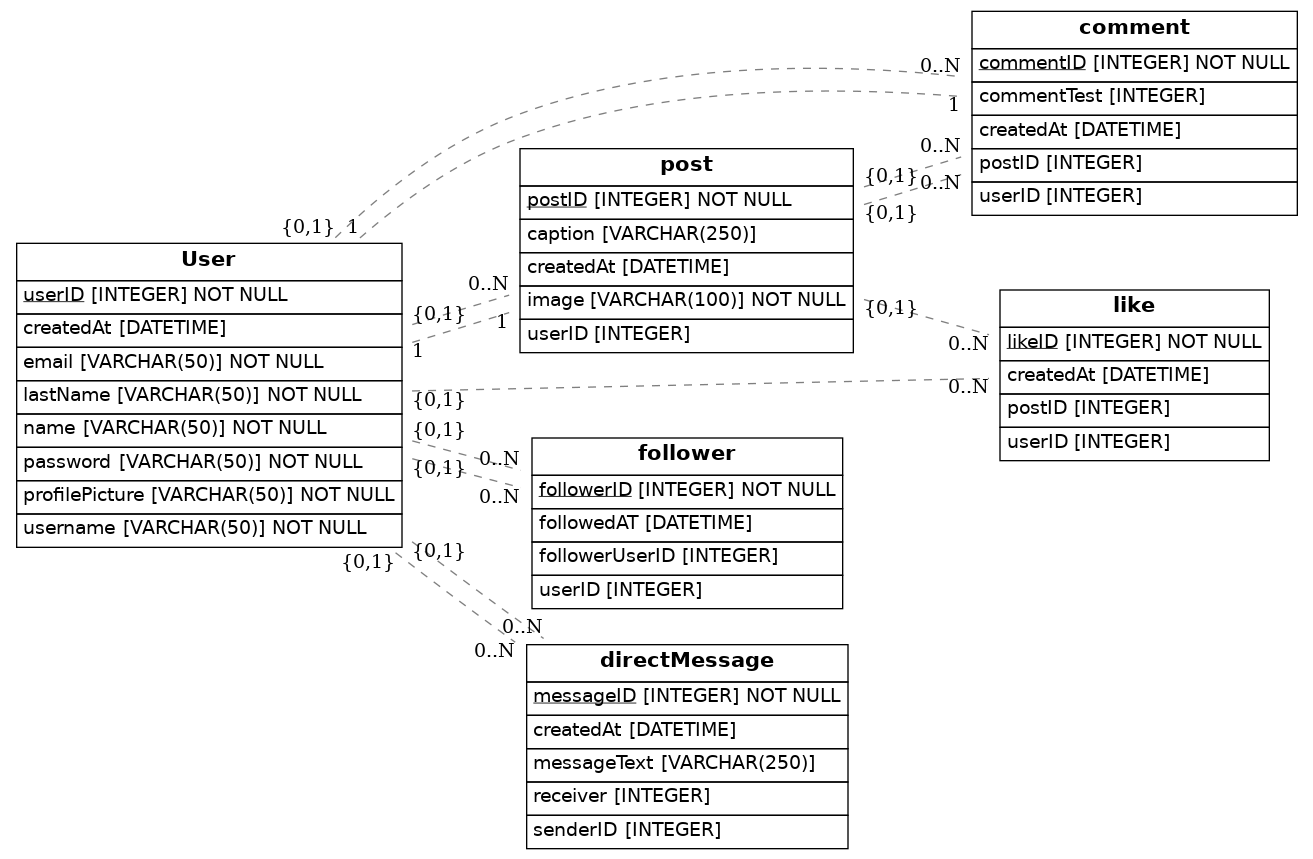
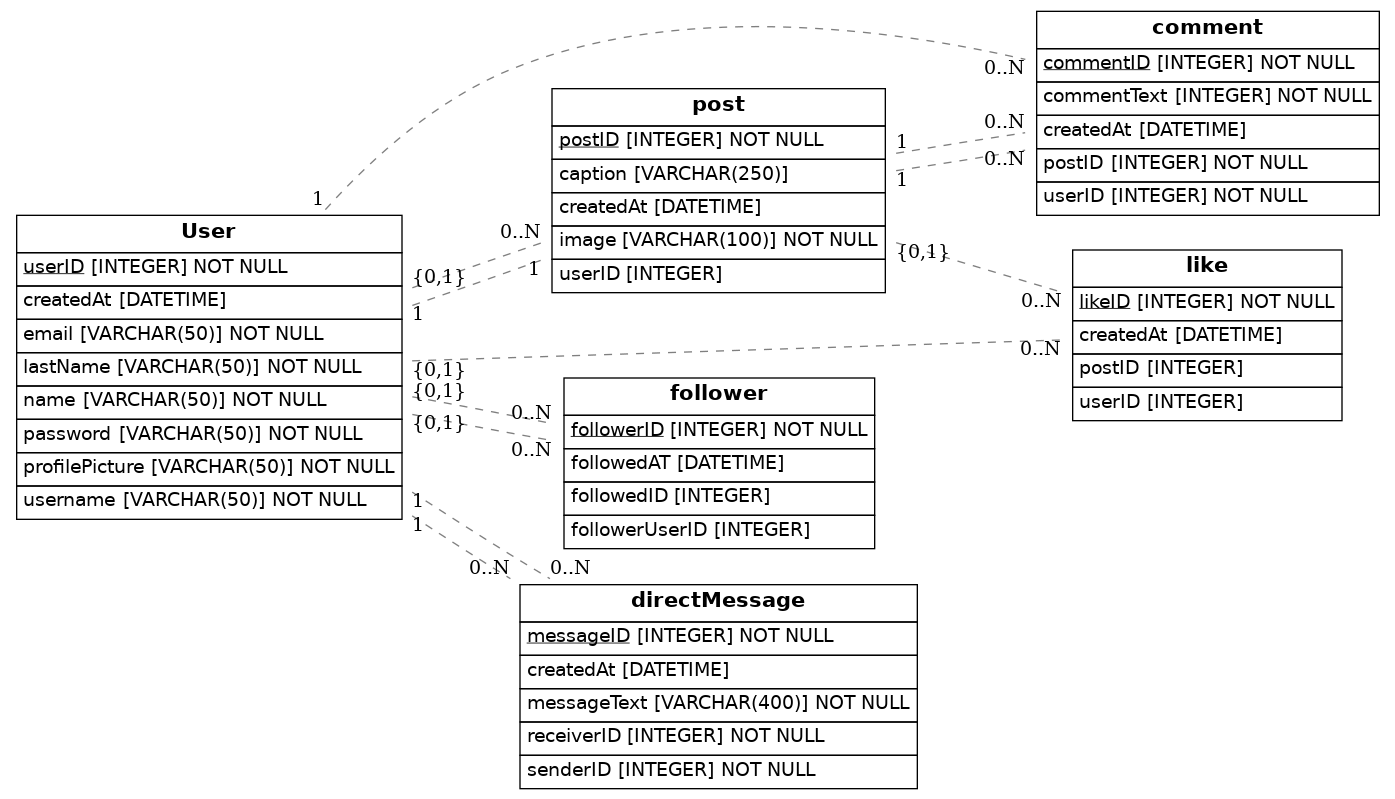
proyecto listo

diff --git a/src/models.py b/src/models.py
@@ -10,7 +10,7 @@ Base = declarative_base()
 class User(Base):
     __tablename__ = 'User'
     userID = Column(Integer, primary_key=True)
-    username = Column(String(50), index=True, nullable=False)    # >-< DirectMessage.SenderID
+    username = Column(String(50), index=True, nullable=False, unique=True)    # >-< DirectMessage.SenderID
     email = Column(String(50), nullable=False, unique=True)
     name = Column(String(50), nullable=False)
     lastName = Column(String(50), nullable=False)
@@ -19,6 +19,15 @@ class User(Base):
     createdAt = Column(DateTime)
     # Here we define columns for the table person
     # Notice that each column is also a normal Python instance attribute.
+
+        #cascade="all, delete-orphan" incluye todas las opciones de cascada como borrar, actualizar etc... y elimina los hijos sin padres
+    posts = relationship("Post", back_populates="user", cascade="all, delete-orphan") #(un usuario puede tener múltiples publicaciones).
+    comments = relationship("Comment", back_populates="user", cascade="all, delete-orphan") #(un usuario puede tener múltiples comentarios).
+    likes = relationship("Like", back_populates="user", cascade="all, delete-orphan") #(un usuario puede dar múltiples "me gusta").
+    followers = relationship("Follower", back_populates="followed", foreign_keys="[Follower.followedID]") # un usuario puede tener muchos seguidores
+    following = relationship("Follower", back_populates="follower", foreign_keys="[Follower.followerID]") # un usuario puede seguir a muchos usuarios
+    sent_messages = relationship("DirectMessage", back_populates="sender", foreign_keys="[DirectMessage.senderID]") # un usuario puede enviar muchos mensajes
+    received_messages = relationship("DirectMessage", back_populates="receiver", foreign_keys="[DirectMessage.receiverID]") # un usuario puede recibir muchos mensajes
 
 class Post(Base):
     __tablename__ = 'post'
@@ -30,13 +39,21 @@ class Post(Base):
     caption = Column(String(250))
     createdAt = Column(DateTime)
 
+    user = relationship("User", back_populates="posts")
+    comments = relationship("Comment", back_populates="post", cascade="all, delete-orphan") #un post puede tener múltiples comentarios
+    likes = relationship("Like", back_populates="post", cascade="all, delete-orphan") #un post puede tener múltiples "likes"
+
 class Comment(Base):
     __tablename__ = 'comment'
-    commentID = Column(Integer, ForeignKey(User.userID), primary_key=True)
-    postID = Column(Integer, ForeignKey(Post.postID))
-    userID = Column(Integer, ForeignKey(User.userID))
-    commentTest = Column(Integer, ForeignKey(Post.postID))
+    commentID = Column(Integer, primary_key=True)
+    postID = Column(Integer, ForeignKey(Post.postID), nullable=False)
+    userID = Column(Integer, ForeignKey(User.userID), nullable=False)
+    commentText = Column(Integer, ForeignKey(Post.postID), nullable=False)
     createdAt = Column(DateTime)
+
+    user = relationship("User", back_populates="comments") # un comentario pertenece a un usuario
+    post = relationship("Post", back_populates="comments") # un comentario pertenece a un post
+                                                        # un usuario puede dejar varios comentarios en el mismo post
 
 class Like (Base):
     __tablename__ = 'like'
@@ -45,20 +62,29 @@ class Like (Base):
     userID = Column(Integer, ForeignKey(User.userID))
     createdAt = Column(DateTime)
 
+    user = relationship("User", back_populates="likes")
+    post = relationship("Post", back_populates="likes")
+
 class Follower(Base):
     __tablename__ = 'follower'
     followerID = Column(Integer, primary_key=True)
-    userID = Column(Integer, ForeignKey(User.userID))
+    followedID = Column(Integer, ForeignKey(User.userID))
     followerUserID = Column(Integer, ForeignKey(User.userID))
     followedAT = Column(DateTime)
+
+    follower = relationship("User", back_populates="following", foreign_keys=[followerID]) #el usuario que sigue
+    followed = relationship("User", back_populates="followers", foreign_keys=[followedID]) # el usuario seguido
 
 class DirectMessage(Base):
     __tablename__ = 'directMessage'
     messageID = Column(Integer, primary_key=True)
-    senderID = Column(Integer, ForeignKey(User.userID))
-    receiver = Column(Integer, ForeignKey(User.userID))
-    messageText = Column(String(250))
+    senderID = Column(Integer, ForeignKey(User.userID), nullable=False)
+    receiverID = Column(Integer, ForeignKey(User.userID), nullable=False)
+    messageText = Column(String(400), nullable=False)
     createdAt = Column(DateTime)
+
+    sender = relationship("User", back_populates="sent_messages", foreign_keys=[senderID]) # el usuario que envía el mensaje
+    receiver = relationship("User", back_populates="received_messages", foreign_keys=[receiverID]) # el usuario que recibe el mensaje
 
     def to_dict(self):
         return {}
